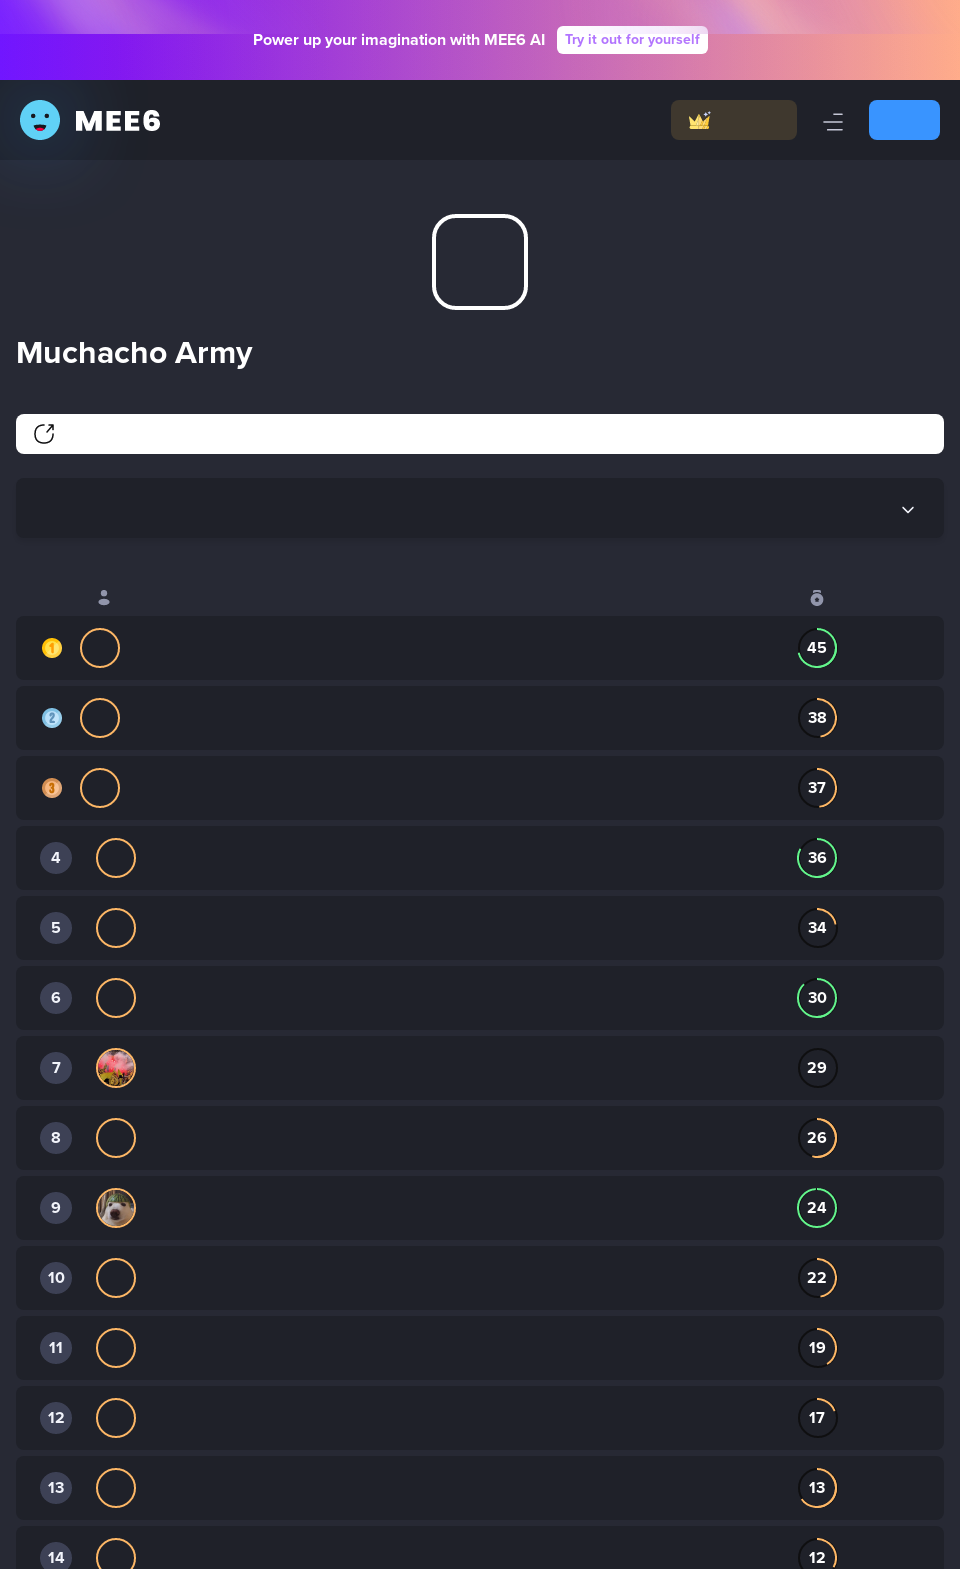
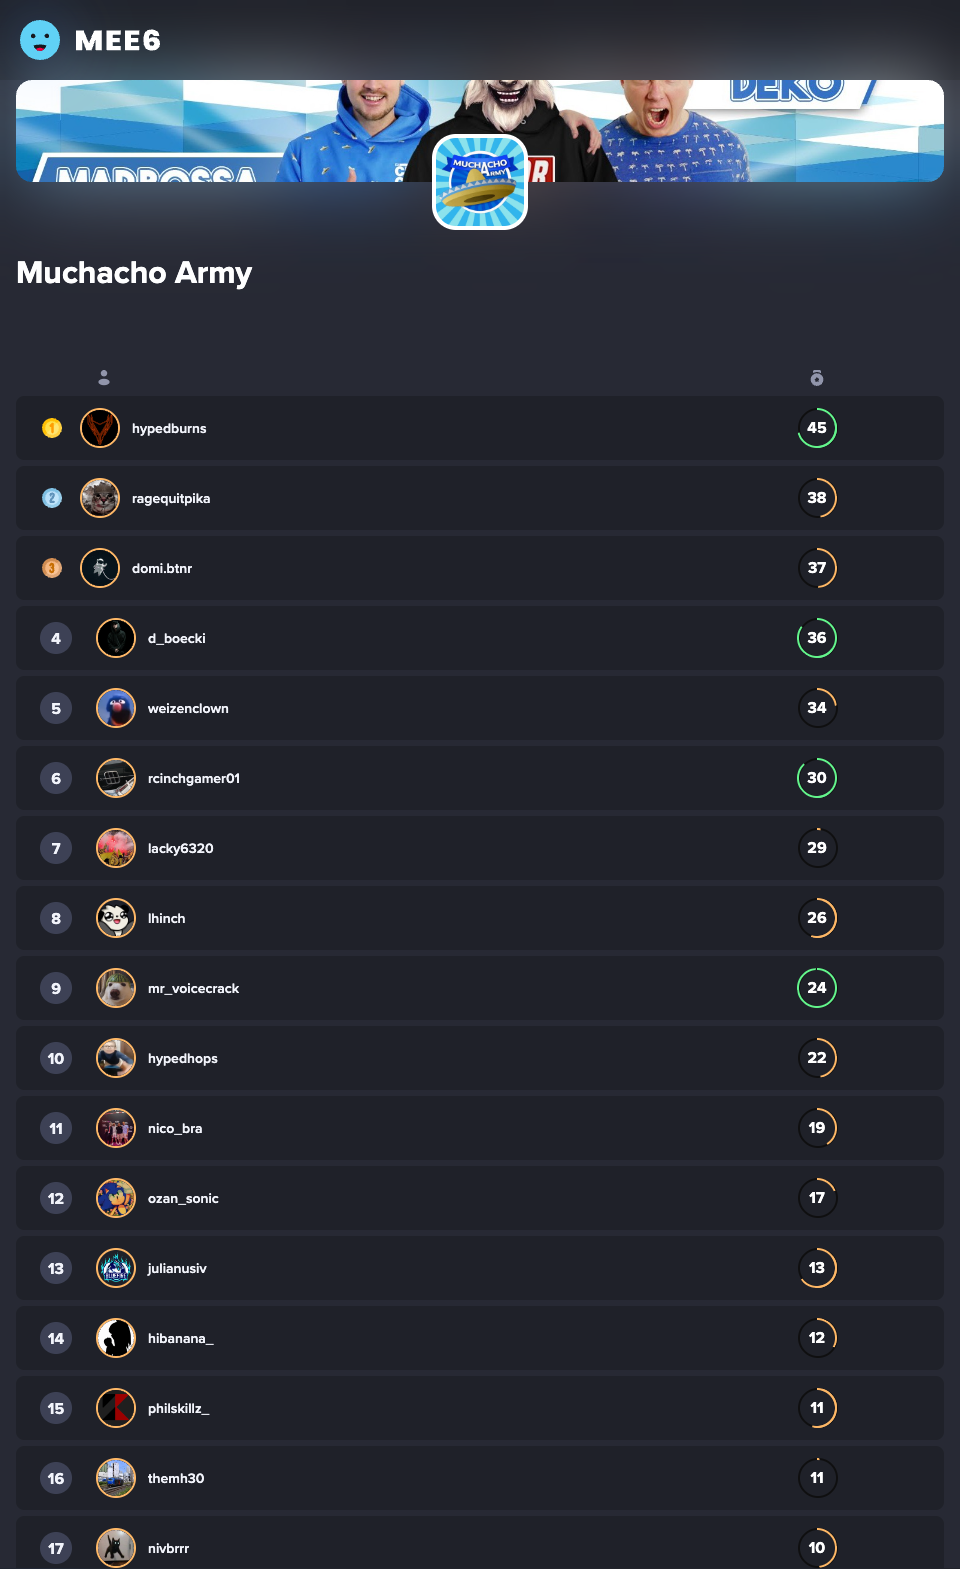
Cleanup and Package Updates

Changed region(s): [[0.0, 0.2186, 1.0, 1.0], [0.0, 0.0, 1.0, 0.1874]]

diff --git a/index.js b/index.js
@@ -3,7 +3,7 @@ const path = require("path");
 const dotenv = require("dotenv");
 const puppeteer = require("puppeteer");
 const FormData = require("form-data");
-const fetch = (...args) => import("node-fetch").then(({ default: fetch }) => fetch(...args));
+// const fetch = (...args) => import("node-fetch").then(({ default: fetch }) => fetch(...args));
 
 dotenv.config();
 const SERVER_ID = "446997274132873220";
@@ -42,13 +42,32 @@ puppeteer.launch({
     }
 }).then(async (browser) => {
     const page = await browser.newPage();
+
     const [year, month] = getMonthAndYear();
     if (!fs.existsSync(`${year}`)) fs.mkdirSync(`${year}`);
+
     await page.goto(`https://mee6.xyz/leaderboard/${SERVER_ID}`);
-    await page.waitForXPath("//*[@id='root']/div[3]/div/div[1]"); /* Leaderboard Element */
+
+    await page.waitForSelector("xpath///*[@id='root']/div[3]/div/div[1]"); /* Leaderboard Element */
+    await page.waitForNetworkIdle();
+
+    const filters = [
+        "xpath///*[@id='root']/div[2]/div/div[2]", // Navbar Buttons
+        "xpath///*[@id='root']/div[3]/div/div[1]/div[3]/button", // Join Button
+        "xpath///*[contains(@id, 'howItWorks')]", // How it works
+        "xpath///*[contains(@class, 'cky')]", // Cookie Notice
+        "xpath///*[contains(@id, 'ad')]", // Ads
+    ]
+    for (const f of filters) {
+        const elements = await page.$$(f);
+        for (const element of elements)
+            await page.evaluate((element) => element.remove(), element);
+    }
+
     await page.screenshot({ path: path.join(`${year}`, `${month}.png`) });
     await browser.close();
     console.log("Screenshot created")
+
     const form = new FormData();
     const attachmentName = `${month.split(" ")[1].replace("ä", "ae")}.png`
     form.append("file", fs.readFileSync(path.join(`${year}`, `${month}.png`)), attachmentName);
